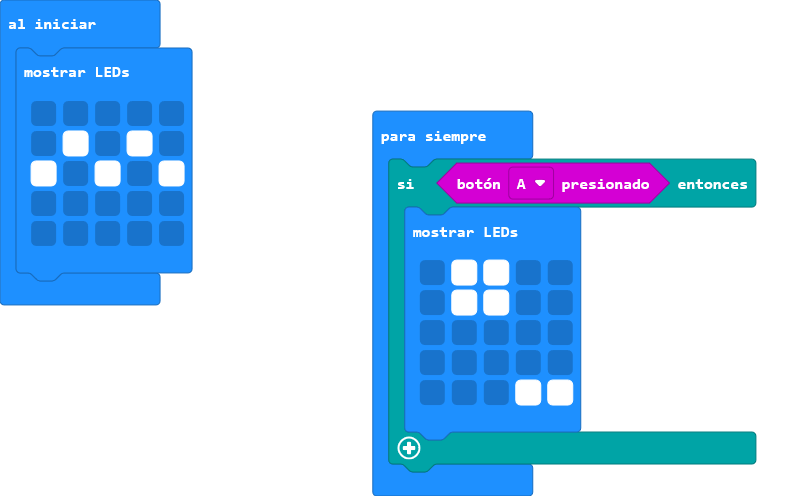
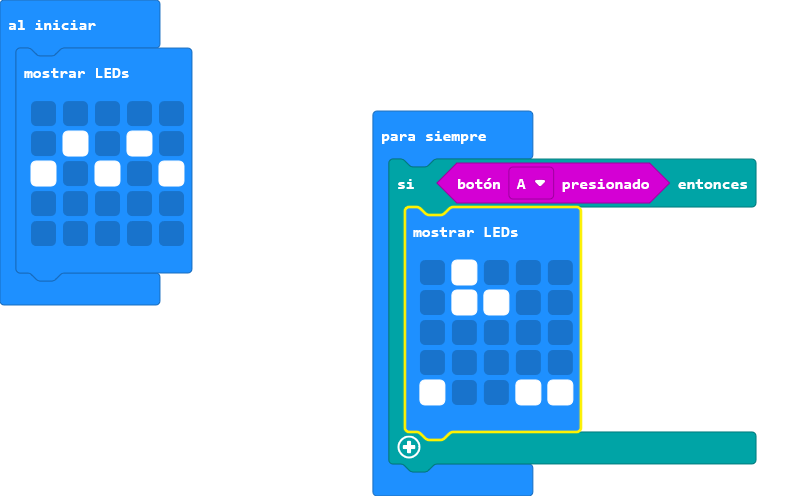
Actualizar main.blocks, main.ts

diff --git a/main.ts b/main.ts
@@ -8,11 +8,11 @@ basic.showLeds(`
 basic.forever(function () {
     if (input.buttonIsPressed(Button.A)) {
         basic.showLeds(`
-            . # # . .
+            . # . . .
             . # # . .
             . . . . .
             . . . . .
-            . . . # #
+            # . . # #
             `)
     }
 })
